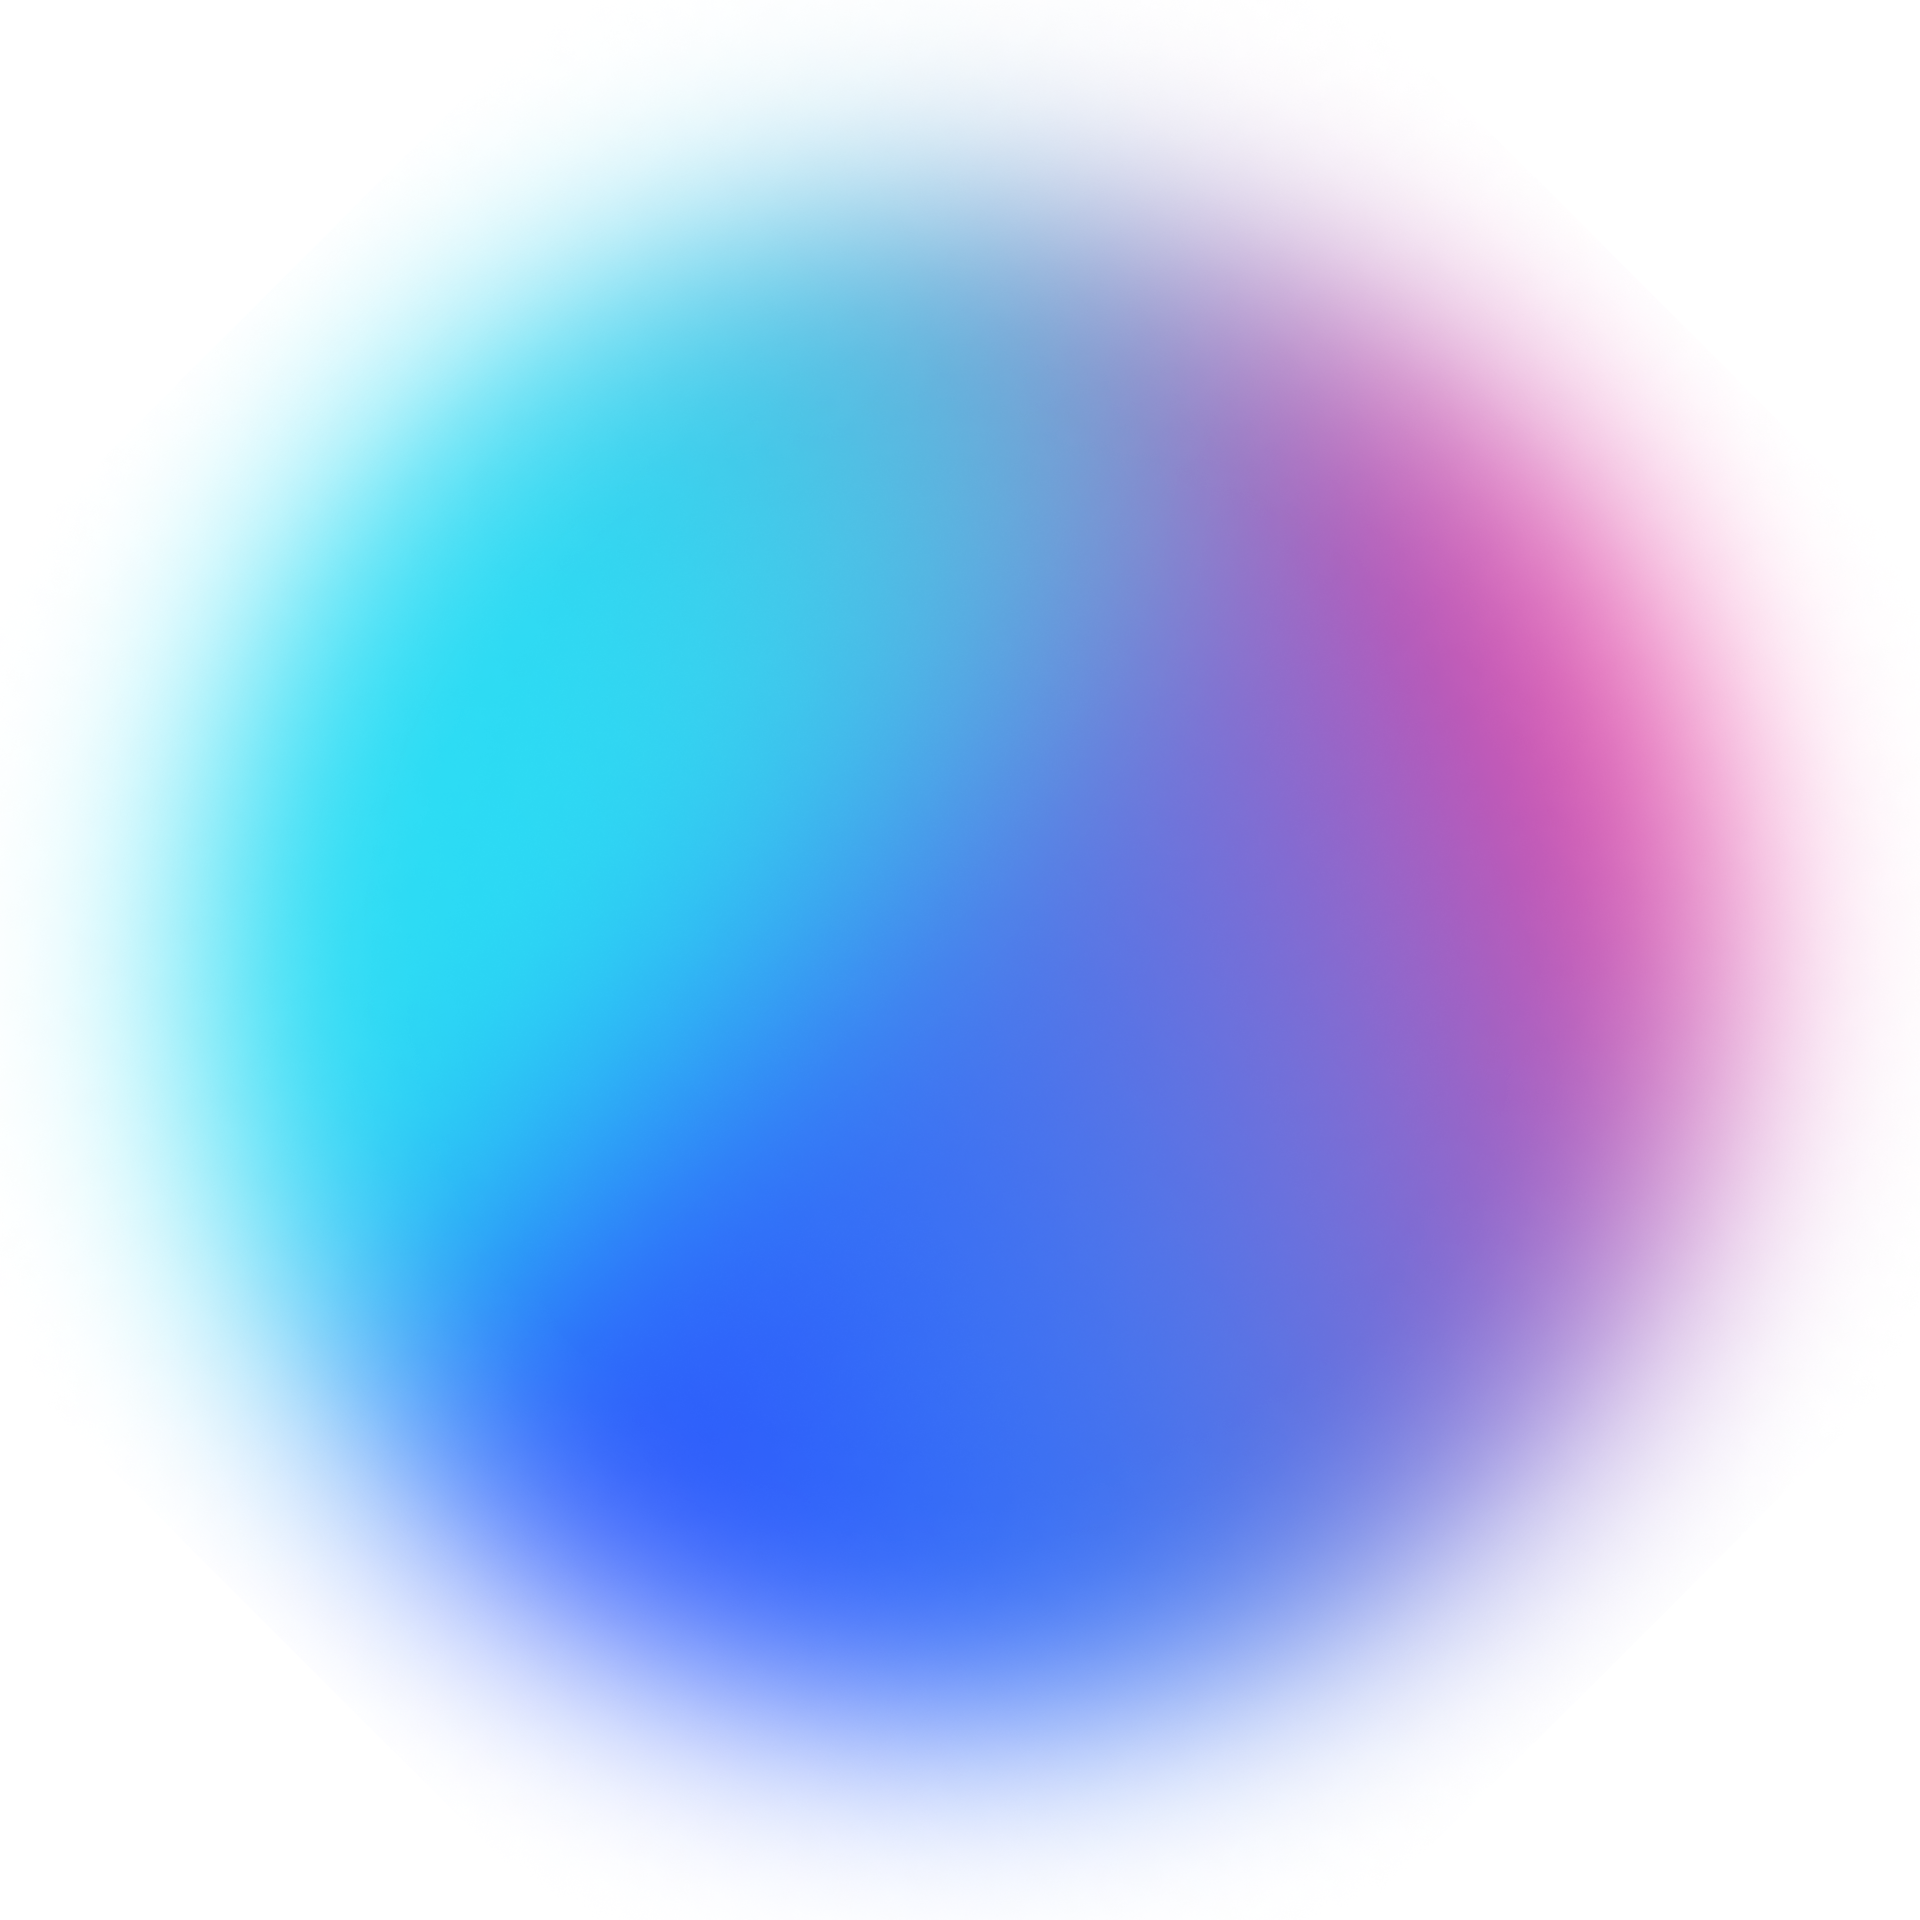
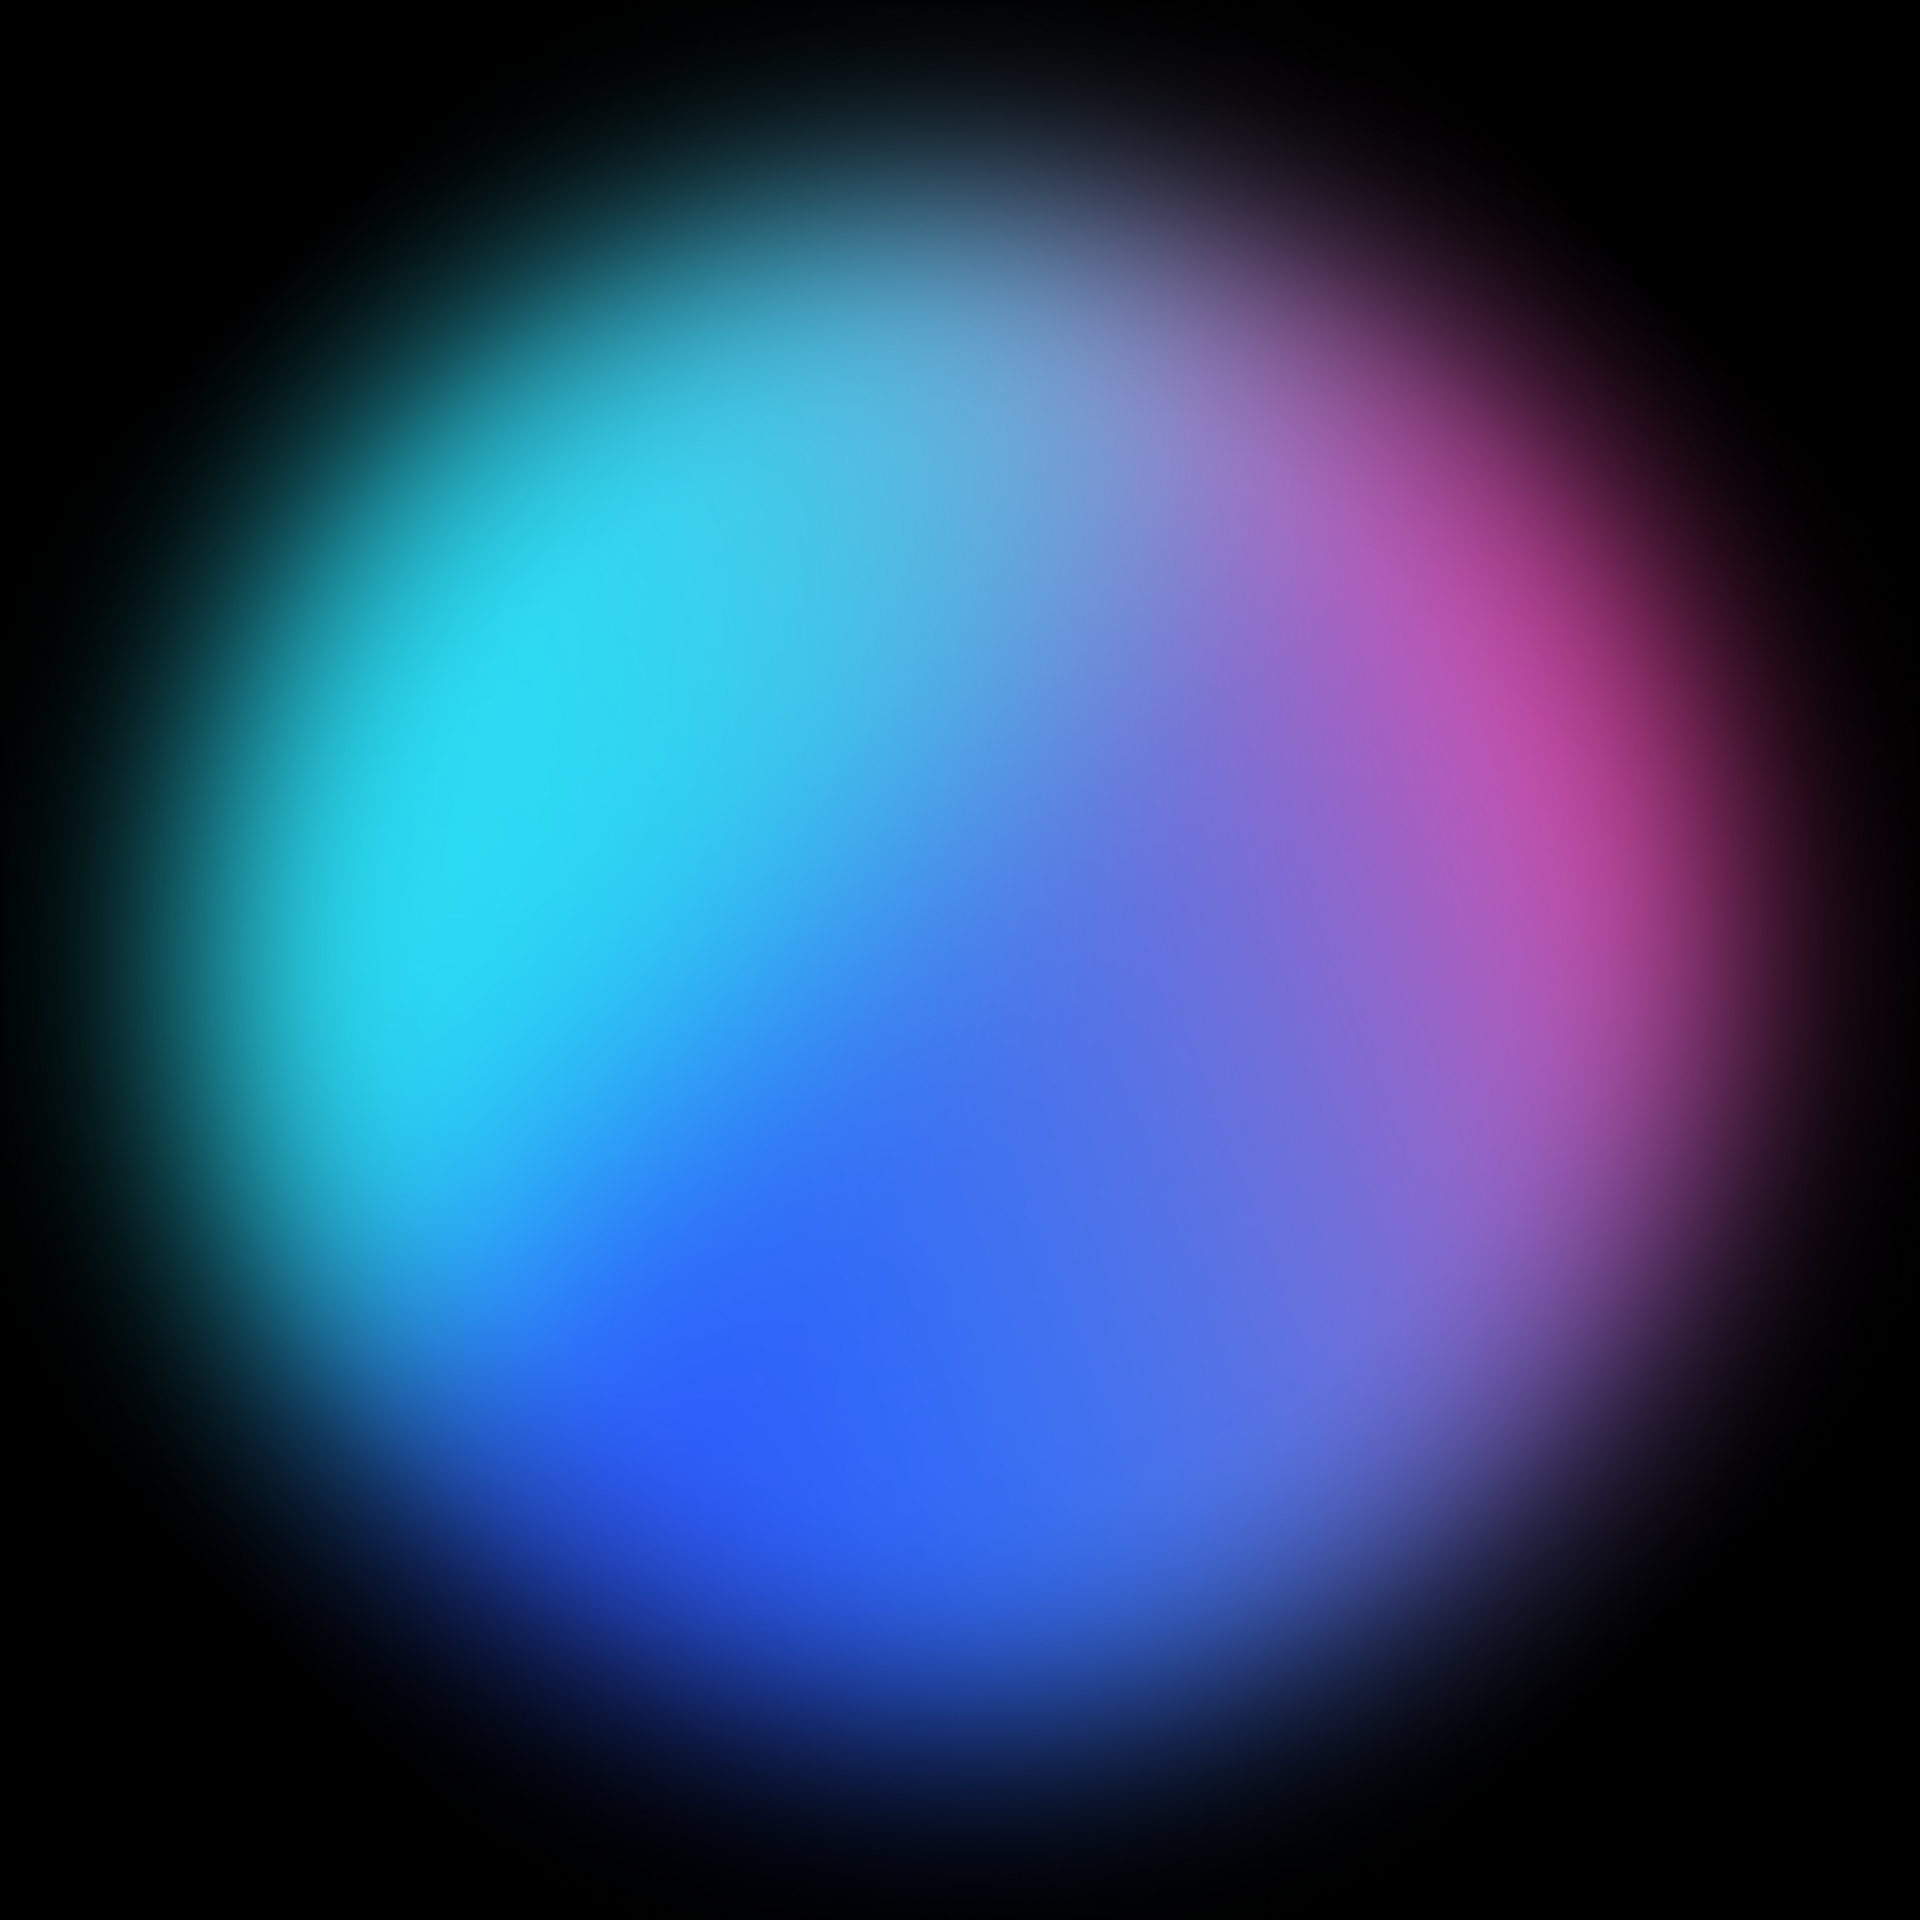
feat: add animation

diff --git a/pages/index.js b/pages/index.js
@@ -1,4 +1,3 @@
-import Head from 'next/head'
 import Image from 'next/image'
 
 import style from '../styles/home.module.scss'
@@ -6,7 +5,7 @@ import style from '../styles/home.module.scss'
 function Content() {
   return (
     <div className="flex flex-col items-center gap-4 text-center">
-      <div className="flex">
+      <div className="flex" data-aos="fade-up">
         <Image
           src="/logo.svg"
           alt="Revolicon Logo"
@@ -15,8 +14,18 @@ function Content() {
           draggable={false}
         />
       </div>
-      <div className="text-white text-opacity-75 text-lg leading-6">Beautifully crafted open source icons.</div>
-      <div className="flex items-center gap-3">
+      <div
+        className="text-white text-opacity-75 text-lg leading-6"
+        data-aos="fade-up"
+        data-aos-delay={300}
+      >
+        Beautifully crafted open source icons.
+      </div>
+      <div
+        className="flex items-center gap-3"
+        data-aos="fade-up"
+        data-aos-delay={800}
+      >
         <a href="https://twitter.com/revolicon" className="inline-flex items-center justify-center px-5 py-2 bg-white rounded-full text-black text-base font-medium leading-6 select-none">Follow us</a>
         <ContentSocial/>
       </div>
@@ -64,7 +73,11 @@ function ContentSocial() {
 
 function Waitlist() {
   return (
-    <div className={style.waitlist}>
+    <div
+      className={style.waitlist}
+      data-aos="fade-up"
+      data-aos-delay={1400}
+    >
       <div className="flex flex-col text-base text-white">
         <div className="font-medium">Join the waitlist</div>
         <div className="text-white text-opacity-50">Sign up to be one of the first to use Revolicon.</div>
@@ -83,7 +96,11 @@ function Waitlist() {
 
 function Creators() {
   return (
-    <div className="flex items-center gap-3">
+    <div
+      className="flex items-center gap-3"
+      data-aos="fade-up"
+      data-aos-delay={1700}
+    >
       <CreatorsItem link="https://twitter.com/emrhnugrl" badge="Designer" name="Emirhan Ugurlu"/>
       <span className="text-white text-opacity-25">✦</span>
       <CreatorsItem link="https://twitter.com/berkpw" badge="Developer" name="Berk Altıok"/>
@@ -110,7 +127,7 @@ function Circle() {
       <div className={style.circle__inner}>
         <div className={style.circle__image}>
           <Image
-            src="/circle.png"
+            src="/circle.jpg"
             alt="Circle"
             loading="eager"
             width={1920}

diff --git a/styles/home.module.scss b/styles/home.module.scss
@@ -40,18 +40,17 @@
   z-index: -1;
   min-height: var(--app-height, 100vh);
   width: var(--app-width, 100%);
-  display: flex;
   justify-content: center;
   overflow: hidden;
-  @apply select-none pointer-events-none absolute;
+  @apply hidden select-none pointer-events-none absolute sm:flex;
 
   @keyframes circle {
     from {
-      transform: translateY(-40%) scale(0.8);
+      transform: translateY(-40%);
       opacity: 0;
     }
     to {
-      transform: translateY(0) scale(1);
+      transform: translateY(0);
       opacity: 1;
     }
   }
@@ -67,9 +66,9 @@
     position: absolute;
     width: 1920px;
     height: 100vh;
-    transform: translateY(-40%) scale(0.8);
+    transform: translateY(-40%);
     opacity: 0;
-    animation: circle 2s .4s cubic-bezier(0.6,0.6,0,1);
+    animation: circle 4s 1000ms cubic-bezier(0.6,0.6,0,1);
     animation-fill-mode: both;
     transition: all 1650ms ease;
   }

diff --git a/pages/_app.js b/pages/_app.js
@@ -1,10 +1,22 @@
+import 'aos/dist/aos.css';
 import '../styles/globals.scss'
 import Head from "next/head";
 
 import useWindowSize from "../hooks/useWindowDimensions";
+import {useEffect} from "react";
+
+import AOS from "aos";
 
 function App({ Component, pageProps }) {
   const { height, width } = useWindowSize();
+
+  useEffect(() => {
+    AOS.init({
+      duration: 2000,
+      easing: "smooth"
+    });
+    AOS.refresh();
+  }, []);
 
   return (
     <>

diff --git a/styles/globals.scss b/styles/globals.scss
@@ -19,3 +19,10 @@ body {
 #__next {
   @apply min-h-full h-full;
 }
+
+[data-aos][data-aos-easing="smooth"] {
+  transition-timing-function: cubic-bezier(0.6,0.6,0,1);
+}
+[data-aos=fade-up] {
+  transform: translate3d(0,40px,0);
+}
